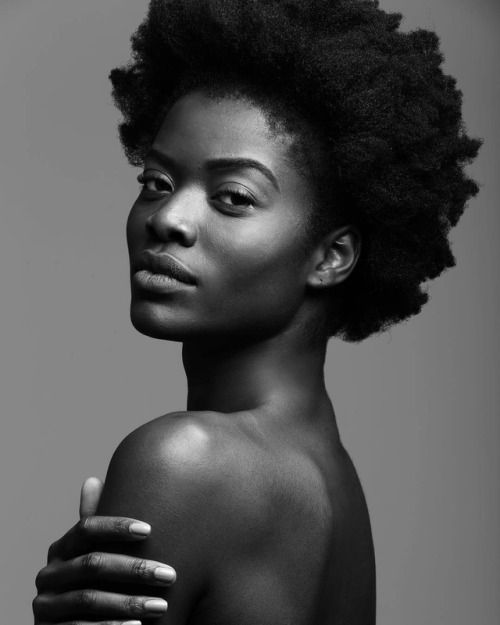
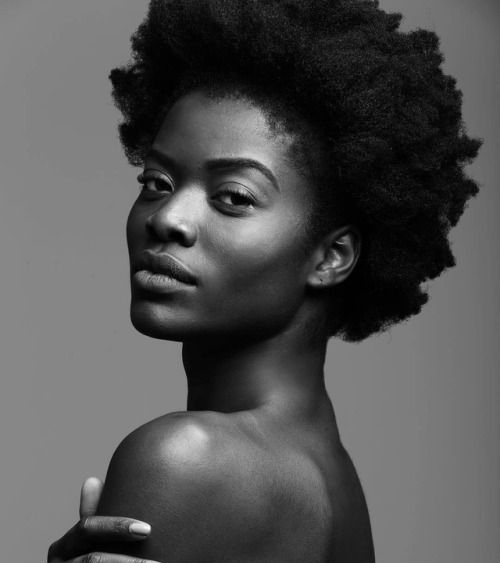
desktop completed

Changed region(s): [[0.06, 0.0302, 0.96, 1.0], [0.48, 0.9361, 0.57, 0.9964], [0.78, 0.0302, 0.87, 0.0604]]

diff --git a/styles/home.css b/styles/home.css
@@ -28,31 +28,68 @@
 html,
 body {
 	background-color: var(--black-color);
-	padding: 0 2rem;
+}
+
+header {
+	display: flex;
+	align-items: center;
+	/* justify-content: center; */
+	gap: 5rem;
+	position: sticky;
+	top: 0;
+	background: var(--black-color);
+	padding: 1rem 4rem;
+}
+
+.logo {
+	display: flex;
+	flex-direction: column;
+	align-items: center;
+	justify-content: center;
+}
+
+h1 {
+	font-family: "Brown Sugar Font Family", sans-serif;
+	font-size: 100px;
+	margin: 0;
+	color: #ffa1a7;
+}
+
+h2 {
+	font-family: "Brown Sugar Font Family", sans-serif;
+	font-size: 64px;
+	margin: 0;
+	color: var(--white-color);
+}
+
+h3 {
+	font-family: "code", sans-serif;
+	font-size: 21px;
+	color: var(--white-color);
 }
 
 nav {
 	font-family: "Anka Coder", sans-serif;
-	font-size: 30px;
+	font-size: 28px;
 	text-align: center;
-	padding: 20px;
+	flex: 1;
 }
 
-nav li {
+nav ul li {
 	list-style-type: none;
 	padding: 0;
 	margin: 0;
 }
-
-nav ul li {
-	display: inline-block;
-	margin: 0 40px;
+nav ul {
+	display: flex;
+	flex-direction: row;
+	justify-content: space-between;
+	gap: 2rem;
 }
 
 nav ul li a {
 	color: var(--white-color);
 	text-decoration: none;
-	padding: 10px;
 }
 
 nav ul li a:hover {
@@ -60,6 +97,17 @@ nav ul li a:hover {
 	text-decoration: underline;
 }
 
+.active {
+	color: #ffa1a7;
+}
+
+main {
+	display: flex;
+	flex-direction: column;
+	justify-content: center;
+	align-items: center;
+	margin-bottom: 0;
+}
 .herosection {
 	display: flex;
 	flex-direction: row;
@@ -67,10 +115,13 @@ nav ul li a:hover {
 	padding: 2rem 0 0 0;
 	/* align-items: center; */
 	justify-content: space-between;
+	overflow: hidden;
+	padding: 0 2.5rem;
 }
 .hero-img {
 	display: flex;
 	flex-direction: row;
+	padding-bottom: 0;
 	width: 75%;
 	gap: 2rem;
 	justify-content: space-between;
@@ -78,7 +129,7 @@ nav ul li a:hover {
 .hero-text {
 	display: flex;
 	flex-direction: column;
-	gap: 3rem;
+	gap: 2rem;
 	width: 20%;
 	color: var(--white-color);
 	font-family: "Abhaya Libre", sans-serif;
@@ -99,10 +150,42 @@ nav ul li a:hover {
 }
 .big-img {
 	width: 65%;
+	height: 100%;
+	/* overflow: hidden; */
 }
 .big-img img {
-	width: 100%;
+	width: 95%;
 	height: 100%;
 	/* object-position: 0 50px; */
-	/* object-fit: contain; */
+	object-fit: contain;
+}
+.button-div {
+	position: absolute;
+	bottom: 12%;
+	right: 25%;
+}
+.button-div button {
+	background-color: var(--pink-color);
+	color: var(--black-color);
+	border: 1px solid var(--black-color);
+	padding: 0.8rem 1rem;
+	border-radius: 2rem;
+	font-family: "Anka Coder", sans-serif;
+	text-transform: uppercase;
+	transition: all 0.2s ease-in;
+}
+.button-div button:hover {
+	transform: scale(1.2);
+	cursor: pointer;
+}
+
+/* Footer */
+
+.footer {
+	/* position: sticky; */
+	/* bottom: 0; */
+	color: var(--black-color);
+	text-align: center;
+	padding: 1rem;
+	background-color: var(--pink-color);
 }

diff --git a/index.html b/index.html
@@ -16,9 +16,13 @@
 	</head>
 	<body>
 		<header>
+			<div class="logo">
+				<h2>Sarah's</h2>
+				<h3>Photography</h3>
+			</div>
 			<nav>
 				<ul>
-					<li><a href="index.html">HOME</a></li>
+					<li><a href="index.html" class="active">HOME</a></li>
 					<li><a href="about-me.html">ABOUT ME</a></li>
 					<li><a href="portfolio.html">PORTFOLIO</a></li>
 					<li><a href="contact-me.html">CONTACT</a></li>
@@ -34,17 +38,24 @@
 				</div>
 				<div class="hero-img">
 					<div class="big-img"><img src="./assets/home-b&w.jpg" /></div>
-					<div class="small-images" >
+					<div class="small-images">
 						<div class="small-img">
 							<img src="./assets/home-coloured.jpg" />
 						</div>
 						<div class="small-img">
 							<img src="./assets/home-b&w2.jpg" />
 						</div>
+						<div class="button-div">
+							<button class="work-btn">work with me <i class="fa-solid fa-arrow-right-long"></i></button>
+						</div>
 					</div>
 				</div>
 			</section>
 		</main>
+
+		<footer class="footer">
+			<p>&copy; 2024 Sarah's Photography. All Right's Reserved</p>
+		</footer>
 
 		<script
 			src="https://cdn.jsdelivr.net/npm/bootstrap@5.3.2/dist/js/bootstrap.bundle.min.js"
